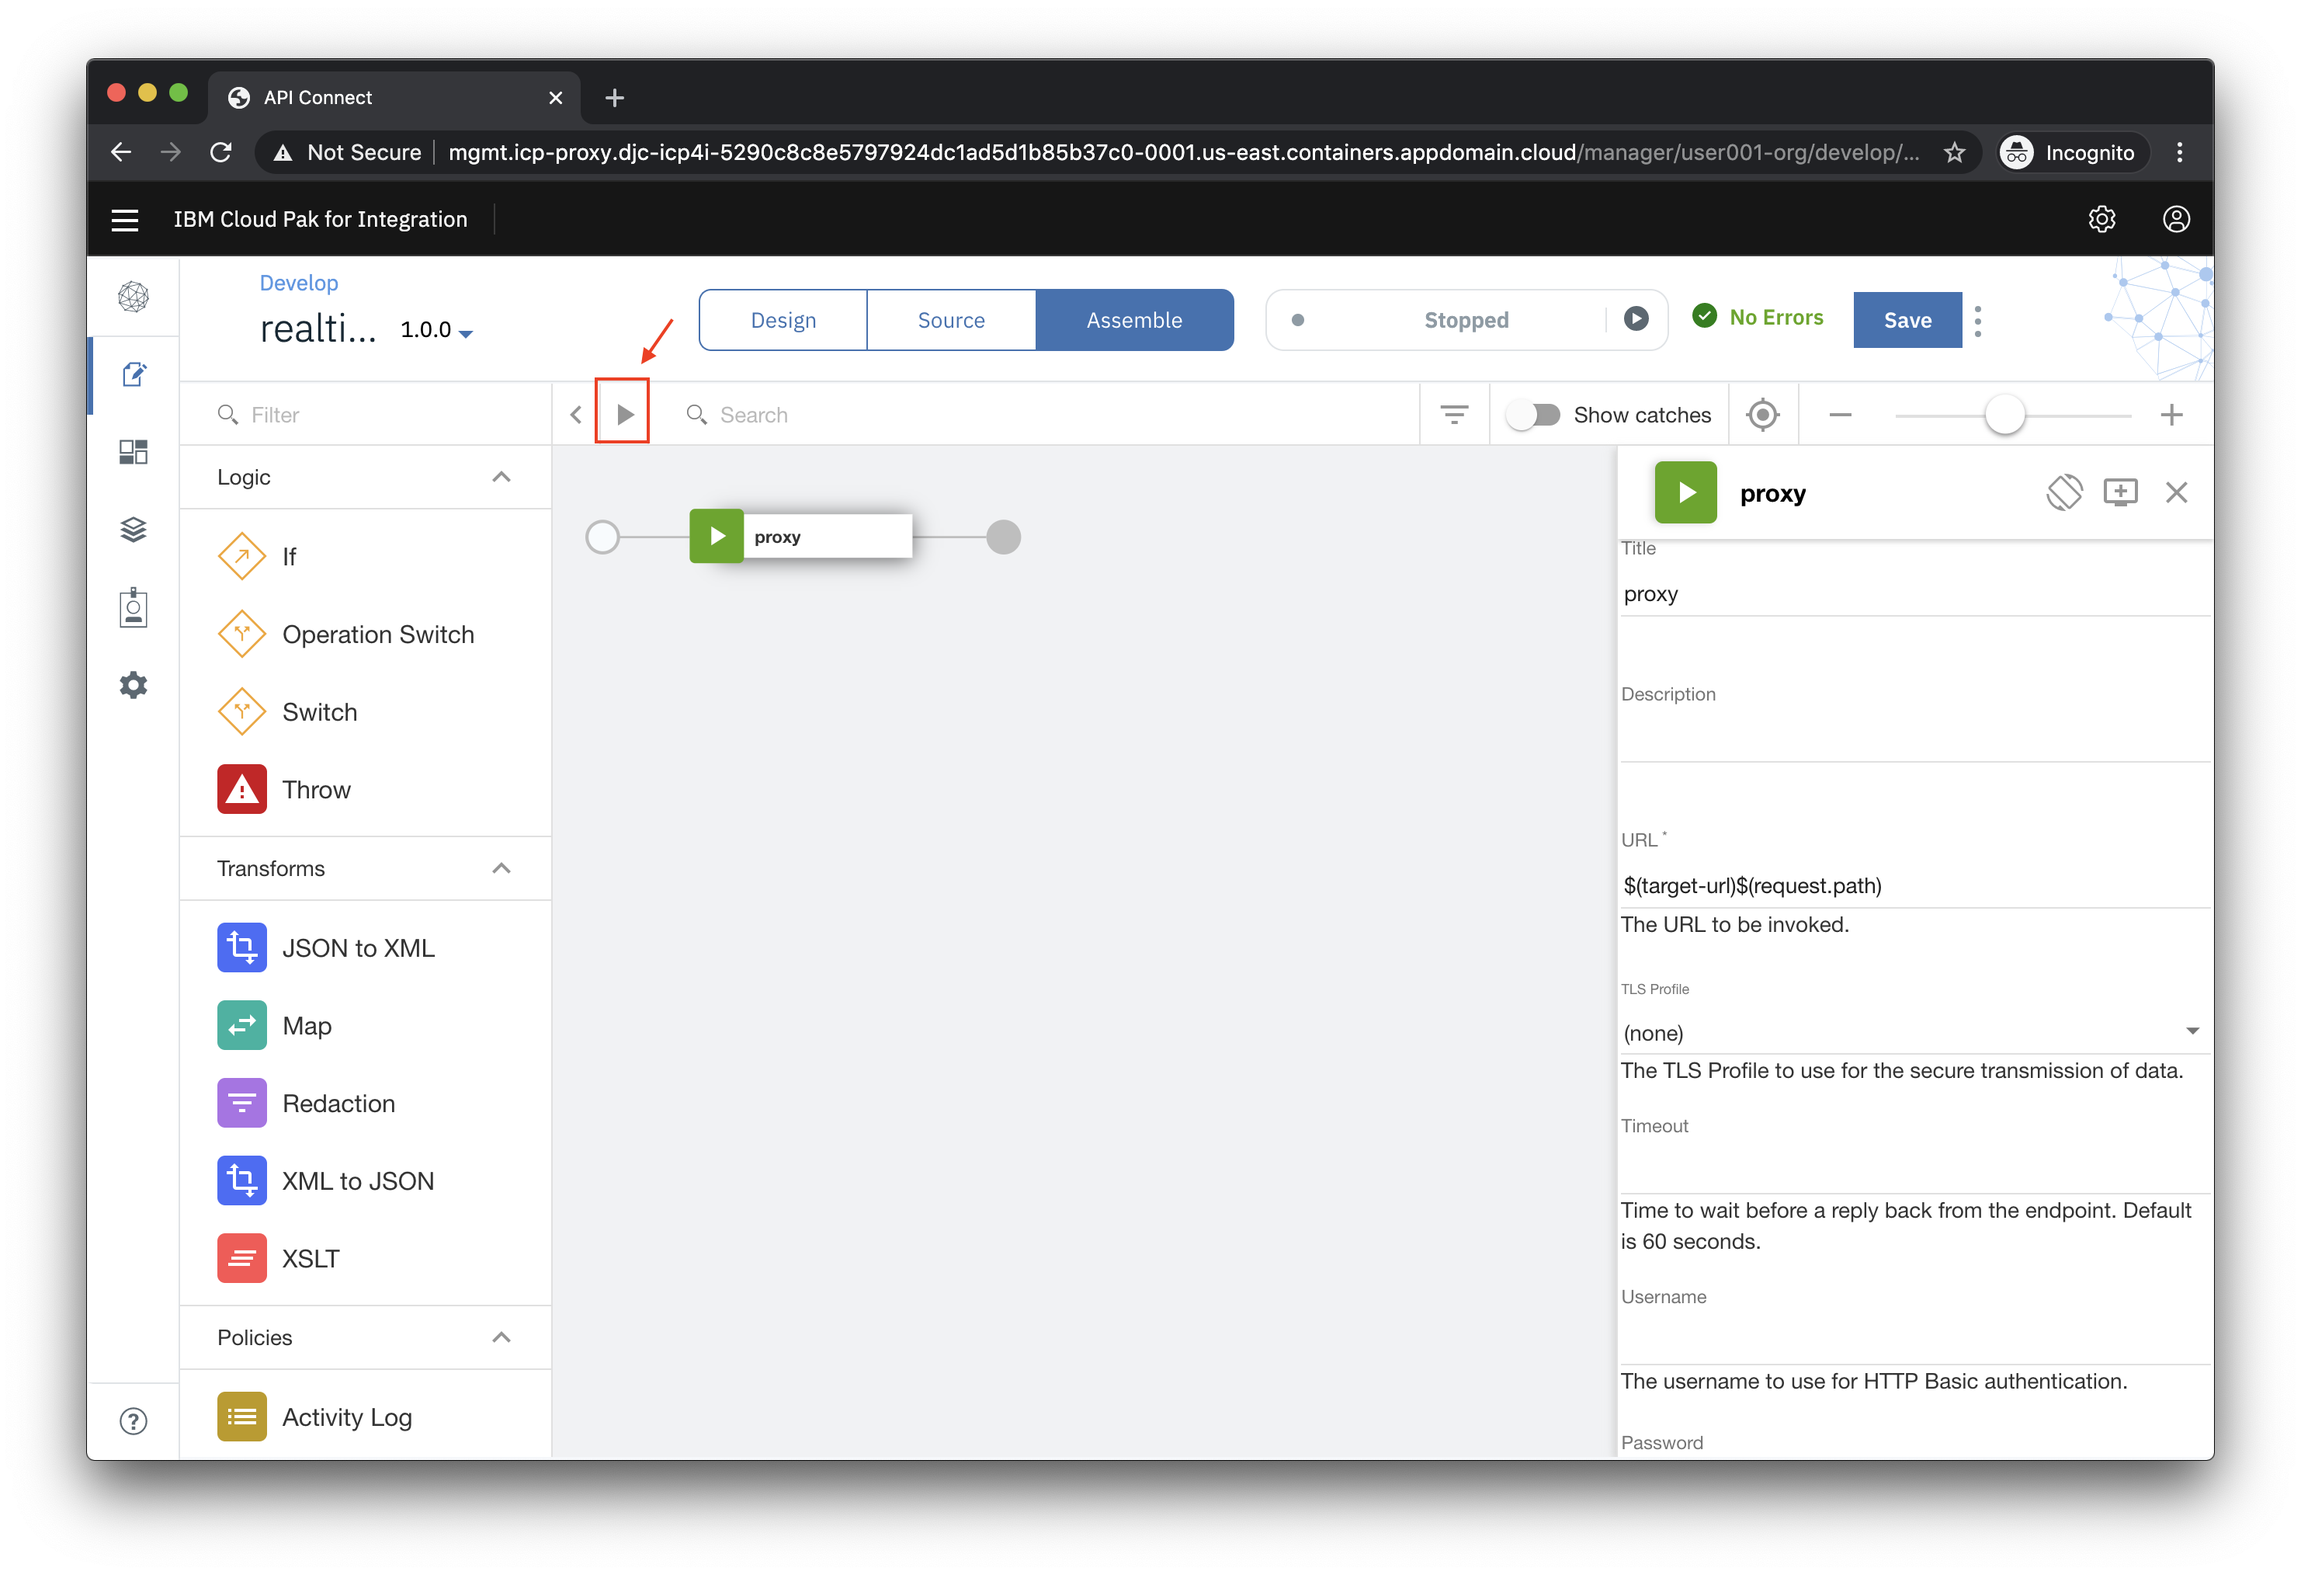
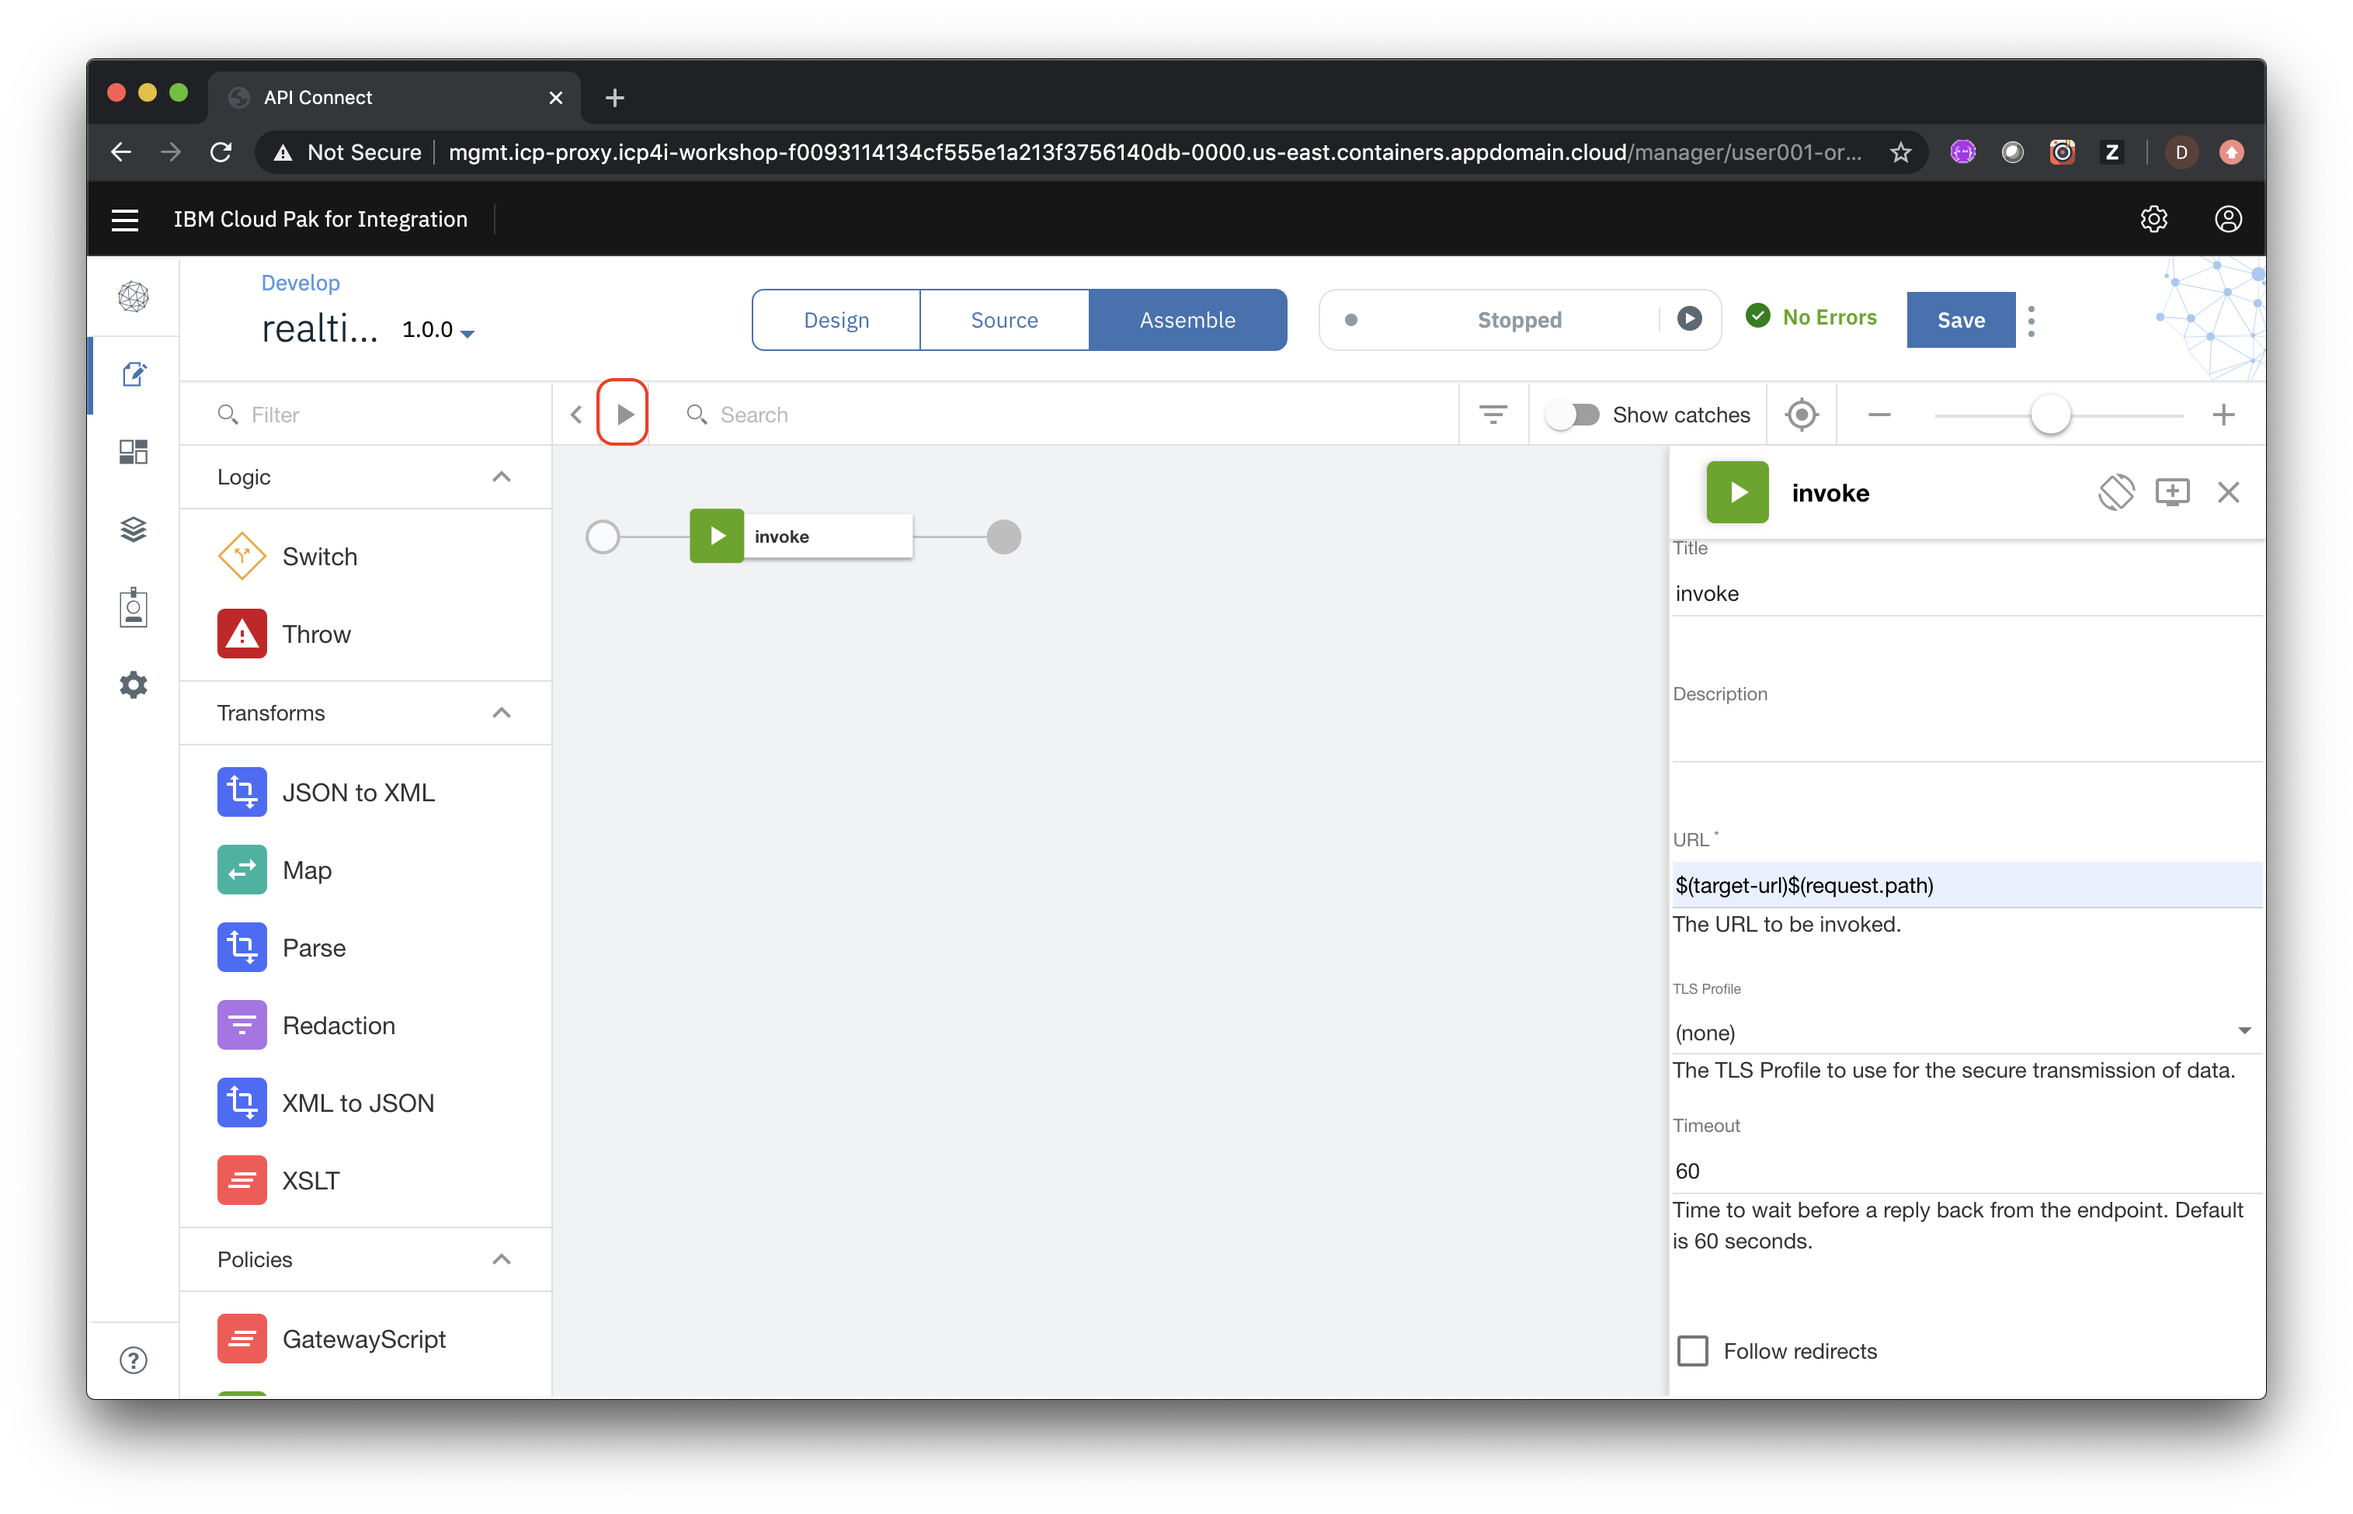
Updated for missing steps+operator deployment

diff --git a/README.md b/README.md
@@ -57,7 +57,7 @@ This lab is broken up into the following steps:
 
   ![Existing OpenAPI](images/existing-api.png)
 
-2.4 Now choose **stock-quote-api.yaml** fromyour local file system and click **Next**.
+2.4 Now choose **stock-quote-api.yaml** from your local file system and click **Next**.
 
   ![Choose file](images/choose-file.png)
 
@@ -73,35 +73,41 @@ This lab is broken up into the following steps:
 
 After importing the existing API, the first step is to configure basic security before exposing it to other developers. By creating a client key  you are able to identify the app using the services. Next, we will define the backend endpoints where the API is actually running. API Connect supports pointing to multiple backend endpoints to match your multiple build stage environments.
 
-3.1 In the Edit API screen click **Security Definitions**
+3.1 Scroll down in  the  Edit API screen and replace the **Host** address with `$(catalog.host)` to indicate that you want calls to the external API to go through API Connect.
 
-3.2 In the **Security Definition** section, click the **Add** button on the right. This will open a new view titled **API Security Definition**.
+  ![Catalog Host](images/catalog-host.png)   
 
-3.2 In the **Name** field, type `client-id`.
+3.2 Click **Save**
 
-3.3 Under **Type**, choose **API Key**. This will reveal additional settings.
+3.3 In the Edit API screen click **Security Definitions** in the left navigation
 
-3.4 For **Located In** choose **Header**. For **Key Type** choose **Client ID**. Your screen should look like the image below.
+3.4 In the **Security Definition** section, click the **Add** button on the right. This will open a new view titled **API Security Definition**.
+
+3.5 In the **Name** field, type `client-id`.
+
+3.6 Under **Type**, choose **API Key**. This will reveal additional settings.
+
+3.7 For **Located In** choose **Header**. For **Key Type** choose **Client ID**. Your screen should look like the image below.
 
   ![Edit API complete](images/edit-api-complete.png)   
 
-3.5 Click the **Save** button to return to the **Security Definitions** section.
+3.8 Click the **Save** button to return to the **Security Definitions** section.
 
-3.6 Click **Security** in the left menu. Click **Add**. Select the **client-id** as shown below and then click **Save**.
+3.9 Click **Security** in the left menu. Click **Add**. Select the **client-id** as shown below and then click **Save**.
 
   ![Security](images/security.png)
 
-3.7 Next you'll the define the endpoint for the external API. Click on **Properties** in the left menu.
+3.10 Next you'll the define the endpoint for the external API. Click on **Properties** in the left menu.
 
-3.8 Click on the **target-url** property. Click **Add**.
+3.11 Click on the **target-url** property. Click **Add**.
 
-3.9 Choose the **sandbox** catalog and for the URL copy and paste the following URL:
+3.12 Choose the **sandbox** catalog and for the URL copy and paste the following URL:
 
     https://stock-trader-quote.us-south.cf.appdomain.cloud
 
    ![Target URL](images/target-url.png)
 
-3.10 Click **Save** to complete the configuration.
+3.13 Click **Save** to complete the configuration.
 
 ## Step 4: Test the API
 
@@ -111,9 +117,13 @@ In the API designer, you have the ability to test the API immediately after crea
 
   ![Assemble](images/assemble.png)
 
-4.2 Click **proxy** in the flow designer. Note the window on the right with the configuration. It calls the **target-url** with the same request path sent to the API Connect endpoint.
+4.2 Click **invoke** in the flow designer. Note the window on the right with the configuration. The **invoke** node calls the **target-url** (ie the external service).
 
-  ![Proxy](images/proxy.png)   
+  ![Invoke](images/invoke.png)
+
+4.3 Modify the **URL** field to include the request path passed in by the caller as well by appending `$(request.path)` to teh **URL**.
+
+  ![Invoke edited](images/invoke-edited.png)   
 
 4.3 Click the play icon as indicated in the image below.
 
@@ -182,69 +192,51 @@ git clone https://github.com/IBMStockTraderLite/traderlite-cp4i.git
 6.2 Go to the repo main directory required to run the setup scripts
 
 ```
-cd traderlite-cp4i
+cd traderlite-cp4i/scripts
 ```
 
-6.3 Install the prerequisite subcharts (mongodb, mariadb, mq)
+6.3 Install the operator used to create the `TraderLite`  Custom Resource used to install the app.
 
 ```
-helm dependency update traderlite
+./installOperator.sh
 ```
 
-6.4 Verify the output looks like the following:
+6.4 Run the following command to get a list of running pods
 
 ```
-$ helm dependency update traderlite
-Hang tight while we grab the latest from your chart repositories...
-...Successfully got an update from the "ibm" chart repository
-...Successfully got an update from the "ibmstable" chart repository
-...Successfully got an update from the "bitnami" chart repository
-...Successfully got an update from the "stable" chart repository
-Update Complete. ⎈Happy Helming!⎈
-Saving 3 charts
-Downloading mariadb from repo https://charts.bitnami.com/bitnami/
-Downloading mongodb from repo https://charts.bitnami.com/bitnami/
-Downloading ibm-mqadvanced-server-dev from repo https://raw.githubusercontent.com/IBM/charts/master/repo/stable/
-Deleting outdated charts
+oc get pods
+```
+
+6.5 Verify the output shows the operator pod running:
+
+```
+$ oc get pods
+NAME                                   READY   STATUS    RESTARTS   AGE
+traderlite-operator-6ddd5c4774-l5dcd   1/1     Running   0          20s
 ```
 
 ## Step 7: Install the Trader Lite app
 
-You'll install Trader Lite using a Helm chart.
+You'll install Trader Lite using the Trader Lite operator.
 
-7.1 Go to the repo  directory required to run the setup scripts
-
-```
-cd scripts
-```
-
-7.2 Run the following script, substituting your API Connect endpoint URL and API Key that you saved previously.
+7.1 Run the following script, substituting your API Connect endpoint URL and API Key that you saved previously.
 
 ```
 ./initialInstall.sh [YOUR API CONNECT EXTERNAL URL] [YOUR API KEY]
 ```
-7.3 Verify that the output looks like the following:
+7.2 Verify that the output looks like the following:
 
 ```
 $  ./initialInstall.sh https://yoururl/ your_client_id
 Script being run from correct folder
 Validating student id  ...
-Installing Trader Lite Helm chart ...
-NAME: traderlite
-LAST DEPLOYED: Mon Jun  1 11:34:46 2020
-NAMESPACE: trader-user001
-STATUS: deployed
-REVISION: 1
-NOTES:
-Trader Lite V2.0 is deployed.
-
-Run  the following command to get the URL of  the applications's UI:
- echo "http://"`oc get route traderlite-tradr  -o jsonpath='{.spec.host }'`"/tradr"
-Trader Lite Helm chart install successful
+Installing Trader Lite using operator ...
+traderlite.operators.clouddragons.com/traderlite created
+Trader Lite install successful
 Wait for all pods to be in the 'Ready' state before continuing
 ```
 
-7.4 Wait for all the pods to start. Run the following command.  
+7.3 Wait for all the pods to start. Run the following command.  
 
 ```
 oc get pods
@@ -253,12 +245,13 @@ Repeat the command  until all the pods are in the *Ready* state as shown below
 ```
 $ oc get pods
 NAME                                        READY   STATUS    RESTARTS   AGE
-traderlite-mariadb-0                        1/1     Running   0          4m48s
-traderlite-mongodb-6c79bf9554-kd5z8         1/1     Running   0          4m48s
-traderlite-portfolio-5d774598fc-g4b2l       1/1     Running   0          4m48s
-traderlite-stock-quote-7965448598-lzwqh     1/1     Running   0          4m48s
-traderlite-trade-history-5648f749c4-5hbhq   1/1     Running   0          4m48s
-traderlite-tradr-6cd8d879f4-hbcfr
+traderlite-mariadb-0                        1/1     Running   0          42s
+traderlite-mongodb-fd7f6d55b-q54bl          1/1     Running   0          42s
+traderlite-operator-6ddd5c4774-l5dcd        1/1     Running   0          19h
+traderlite-portfolio-5d774598fc-tvpdh       1/1     Running   0          42s
+traderlite-stock-quote-7965448598-7b66t     1/1     Running   0          42s
+traderlite-trade-history-5648f749c4-gmnlm   1/1     Running   0          42s
+traderlite-tradr-6cd8d879f4-nxm66           1/1     Running   0          42s
 ```
 
 
